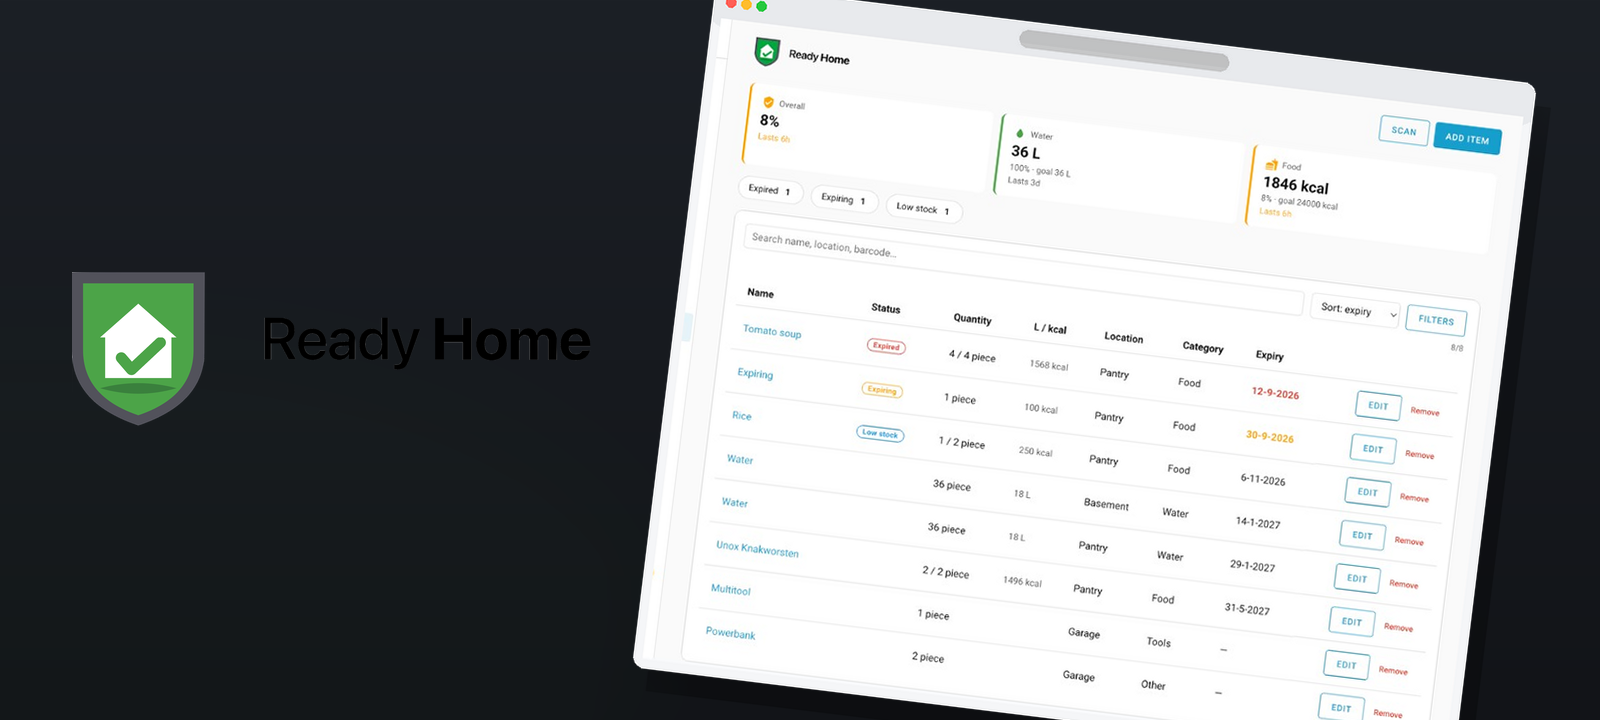
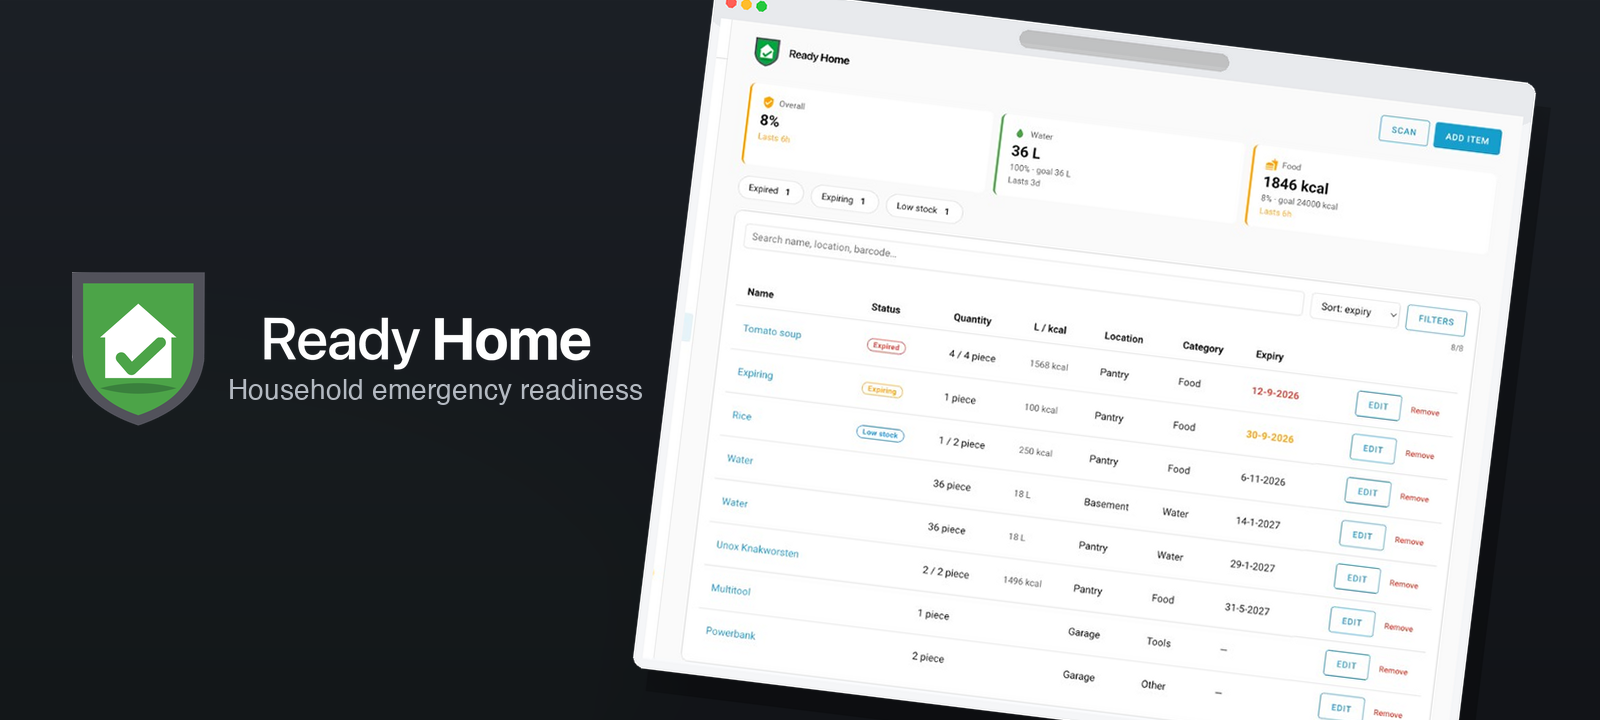
Polish README hero, badges, and numbered docs navigation.
Fix logo contrast with the dark-mode mark and tagline, refresh badge style, and renumber docs with previous/next links.

Changed region(s): [[0.125, 0.4278, 0.4062, 0.5806]]

diff --git a/README.md b/README.md
@@ -1,10 +1,10 @@
 # Ready Home for Home Assistant
 
-[![HACS Custom](https://img.shields.io/badge/HACS-Custom-orange.svg)](https://hacs.xyz/)
-[![Home Assistant](https://img.shields.io/badge/Home%20Assistant-2024.12%2B-blue.svg)](https://www.home-assistant.io/)
-[![GitHub Release](https://img.shields.io/github/v/release/tempi-marathon/ha-ready-home?include_prereleases)](https://github.com/tempi-marathon/ha-ready-home/releases)
-[![License: MIT](https://img.shields.io/badge/License-MIT-yellow.svg)](LICENSE)
-[![Security Policy](https://img.shields.io/badge/Security-Policy-green.svg)](SECURITY.md)
+[![HACS Custom](https://img.shields.io/badge/HACS-Custom-41BDF5?style=for-the-badge&logo=homeassistantcommunitystore&logoColor=white)](https://hacs.xyz/)
+[![Home Assistant](https://img.shields.io/badge/Home%20Assistant-2024.12%2B-41BDF5?style=for-the-badge&logo=homeassistant&logoColor=white)](https://www.home-assistant.io/)
+[![GitHub Release](https://img.shields.io/github/v/release/tempi-marathon/ha-ready-home?style=for-the-badge&include_prereleases&logo=github&logoColor=white)](https://github.com/tempi-marathon/ha-ready-home/releases)
+[![License: MIT](https://img.shields.io/badge/License-MIT-yellow?style=for-the-badge)](LICENSE)
+[![Security Policy](https://img.shields.io/badge/Security-Policy-green?style=for-the-badge&logo=github&logoColor=white)](SECURITY.md)
 
 Track household emergency supplies, measure readiness against water and calorie targets, and surface expired, expiring, and low-stock items as Home Assistant sensors, events, and a sidebar management panel.
 
@@ -12,29 +12,30 @@ Track household emergency supplies, measure readiness against water and calorie 
 
 ## Features
 
-| Area | What you get |
-|------|----------------|
-| **Inventory** | Items with quantity, desired quantity, expiry, priority, location, and category |
-| **Readiness** | Water (liters) and food (calories) on-hand vs per-person targets over a configurable duration (default 72 hours) |
-| **Sensors** | Overall / water / food readiness %, expired / expiring / low-stock counts, total items, needs-attention binary sensor |
-| **Actions** | `add_item`, `update_item`, `adjust_quantity`, `remove_item`, `list_items`, `lookup_barcode` |
-| **Events** | `ready_home_item_expired`, `ready_home_item_expiring`, `ready_home_item_low_stock` |
-| **Sidebar** | Ready Home panel for full inventory management |
-| **Barcode** | Open Food Facts lookup via action, websocket, or sidebar panel. Camera scan uses the Home Assistant Companion app; on desktop enter the code and tap Lookup |
+- **Inventory** — Items with quantity, desired quantity, expiry, priority, location, and category
+- **Readiness** — Water (liters) and food (calories) on-hand vs per-person targets over a configurable duration (default 72 hours)
+- **Sensors** — Overall / water / food readiness %, expired / expiring / low-stock counts, total items, needs-attention binary sensor
+- **Actions** — `add_item`, `update_item`, `adjust_quantity`, `remove_item`, `list_items`, `lookup_barcode`
+- **Events** — `ready_home_item_expired`, `ready_home_item_expiring`, `ready_home_item_low_stock` (fire once on transition)
+- **Sidebar** — Ready Home panel for full inventory management
+- **Barcode** — Open Food Facts lookup via action, websocket, or sidebar panel. Camera scan uses the Home Assistant Companion app; on desktop enter the code and tap Lookup
 
 ## Screenshots
 
 <p align="center">
-  <img src="docs/images/panel-mobile.png" alt="Ready Home on mobile" width="280" />
-  &nbsp;
-  <img src="docs/images/panel-add-item.png" alt="Add item with barcode lookup" width="360" />
-  &nbsp;
-  <img src="docs/images/ha-sensors.png" alt="Home Assistant readiness sensors" width="280" />
+  <img src="docs/images/panel-mobile.png" alt="Ready Home on mobile" width="280" /><br />
+  <em>Mobile panel — readiness cards and inventory list</em>
 </p>
 
-| Mobile panel | Add / edit item | Home Assistant sensors |
-|--------------|-----------------|------------------------|
-| Narrow layout with readiness cards and inventory list | Barcode scan/lookup, stock, calories, expiry | Readiness %, expired, expiring, low stock |
+<p align="center">
+  <img src="docs/images/panel-add-item.png" alt="Add item with barcode lookup" width="360" /><br />
+  <em>Add / edit item — barcode lookup, stock, calories, expiry</em>
+</p>
+
+<p align="center">
+  <img src="docs/images/ha-sensors.png" alt="Home Assistant readiness sensors" width="280" /><br />
+  <em>Home Assistant sensors — readiness %, expired, expiring, low stock</em>
+</p>
 
 ## Install
 
@@ -46,17 +47,17 @@ Installable through [HACS](https://hacs.xyz/) as a **custom repository** (catego
 4. Settings → Devices & Services → Add Integration → **Ready Home**
 5. Enter the number of people in the household
 
-Full guide: [Installation](docs/installation.md) · [Configuration](docs/configuration.md) · [Usage](docs/usage.md)
+Full guide: [1. Installation](docs/01-installation.md) · [2. Configuration](docs/02-configuration.md) · [3. Usage](docs/03-usage.md)
 
 ## Documentation
 
-- [Installation](docs/installation.md)
-- [Configuration](docs/configuration.md)
-- [Usage](docs/usage.md)
-- [Actions](docs/actions.md)
-- [Sensors and events](docs/sensors-and-events.md)
-- [Automations](docs/automations.md)
-- [Readiness math](docs/readiness.md)
+1. [Installation](docs/01-installation.md)
+2. [Configuration](docs/02-configuration.md)
+3. [Usage](docs/03-usage.md)
+4. [Actions](docs/04-actions.md)
+5. [Sensors and events](docs/05-sensors-and-events.md)
+6. [Automations](docs/06-automations.md)
+7. [Readiness math](docs/07-readiness.md)
 
 ## License
 

diff --git a/docs/03-usage.md b/docs/03-usage.md
@@ -1,6 +1,6 @@
-# Usage
+# 3. Usage
 
-After [installation](installation.md), open **Ready Home** in the Home Assistant sidebar.
+After [installation](01-installation.md), open **Ready Home** in the Home Assistant sidebar.
 
 ## Sidebar panel
 
@@ -26,10 +26,14 @@ Use **Add item** (or **Edit** on a row). You can set quantity, desired quantity,
 - **Desktop:** enter a barcode and tap **Lookup** (Open Food Facts).
 - **Companion app:** use **Scan** with the device camera when available.
 
-Lookup is also available via the `ready_home.lookup_barcode` [action](actions.md).
+Lookup is also available via the `ready_home.lookup_barcode` [action](04-actions.md).
 
 ## Sensors
 
-Readiness and attention counts appear as Home Assistant entities on the Ready Home device. See [Sensors and events](sensors-and-events.md).
+Readiness and attention counts appear as Home Assistant entities on the Ready Home device. See [5. Sensors and events](05-sensors-and-events.md).
 
 ![Sensors](images/ha-sensors.png)
+
+---
+
+**Previous:** [2. Configuration](02-configuration.md) · **Next:** [4. Actions](04-actions.md)

diff --git a/docs/01-installation.md b/docs/01-installation.md
@@ -1,4 +1,4 @@
-# Installation
+# 1. Installation
 
 Ready Home installs through [HACS](https://hacs.xyz/) as a **custom repository** (category: **Integration**). A default-store listing (and one-click add button) may follow once approved.
 
@@ -11,7 +11,10 @@ Ready Home installs through [HACS](https://hacs.xyz/) as a **custom repository**
 
 After setup, a **Ready Home** item appears in the sidebar for inventory management (add/edit/remove, filters, barcode).
 
-## Next steps
+## Lovelace resource cleanup
 
-- [Configuration](configuration.md)
-- [Usage](usage.md)
+If you previously added a Lovelace resource for `/ready_home/ready-home.js`, you can remove it (Settings → Dashboards → ⋮ → Resources, or from YAML). Storage-mode installs clean that resource up automatically on the next load.
+
+---
+
+**Next:** [2. Configuration](02-configuration.md)

diff --git a/docs/07-readiness.md b/docs/07-readiness.md
@@ -1,0 +1,14 @@
+# 7. Readiness math
+
+```
+water_target   = people × water_liters_per_person_per_day × duration_hours / 24
+calorie_target = people × calories_per_person_per_day × duration_hours / 24
+percent        = min(100, on_hand / target × 100)
+overall        = min(water_percent, food_percent)
+```
+
+Expired stock is excluded. Items whose category is mapped to food or water but lack calories or liters are counted as unmeasurable and left out of totals. Configure food/water category lists under **Locations and categories** in [2. Configuration](02-configuration.md).
+
+---
+
+**Previous:** [6. Automations](06-automations.md)

diff --git a/docs/02-configuration.md b/docs/02-configuration.md
@@ -1,4 +1,4 @@
-# Configuration
+# 2. Configuration
 
 Open the integration → **Configure**:
 
@@ -10,7 +10,6 @@ Open the integration → **Configure**:
 
 Ready Home treats inventory as a **shared household** resource. Any logged-in Home Assistant user who can open the sidebar panel or call `ready_home.*` actions can read and change the full inventory. Profile settings (people, targets, lists, thresholds) stay in the integration options flow, which is admin-only.
 
-## Related
+---
 
-- [Readiness math](readiness.md)
-- [Usage](usage.md)
+**Previous:** [1. Installation](01-installation.md) · **Next:** [3. Usage](03-usage.md)

diff --git a/docs/README.md b/docs/README.md
@@ -1,9 +1,9 @@
 # Ready Home documentation
 
-- [Installation](installation.md)
-- [Configuration](configuration.md)
-- [Usage](usage.md)
-- [Actions](actions.md)
-- [Sensors and events](sensors-and-events.md)
-- [Automations](automations.md)
-- [Readiness math](readiness.md)
+1. [Installation](01-installation.md)
+2. [Configuration](02-configuration.md)
+3. [Usage](03-usage.md)
+4. [Actions](04-actions.md)
+5. [Sensors and events](05-sensors-and-events.md)
+6. [Automations](06-automations.md)
+7. [Readiness math](07-readiness.md)

diff --git a/docs/04-actions.md b/docs/04-actions.md
@@ -1,4 +1,4 @@
-# Actions
+# 4. Actions
 
 Use **Developer Tools → Actions**. The sidebar panel uses `add_item`, `update_item`, and `remove_item` for writes; `adjust_quantity`, `list_items`, and `lookup_barcode` are mainly for automations and scripts.
 
@@ -77,3 +77,7 @@ action: ready_home.list_items
 data:
   status: low_stock
 ```
+
+---
+
+**Previous:** [3. Usage](03-usage.md) · **Next:** [5. Sensors and events](05-sensors-and-events.md)

diff --git a/docs/05-sensors-and-events.md b/docs/05-sensors-and-events.md
@@ -1,4 +1,4 @@
-# Sensors and events
+# 5. Sensors and events
 
 ## Sensors
 
@@ -23,4 +23,8 @@ These fire once on transition:
 - `ready_home_item_expiring`
 - `ready_home_item_low_stock`
 
-See [Automations](automations.md) for examples.
+See [6. Automations](06-automations.md) for examples.
+
+---
+
+**Previous:** [4. Actions](04-actions.md) · **Next:** [6. Automations](06-automations.md)

diff --git a/docs/06-automations.md b/docs/06-automations.md
@@ -1,4 +1,4 @@
-# Example automations
+# 6. Automations
 
 ## Notify when something expires
 
@@ -29,7 +29,6 @@ actions:
       item: "Restock {{ trigger.event.data.item.name }}"
 ```
 
-## Related
+---
 
-- [Sensors and events](sensors-and-events.md)
-- [Actions](actions.md)
+**Previous:** [5. Sensors and events](05-sensors-and-events.md) · **Next:** [7. Readiness math](07-readiness.md)
